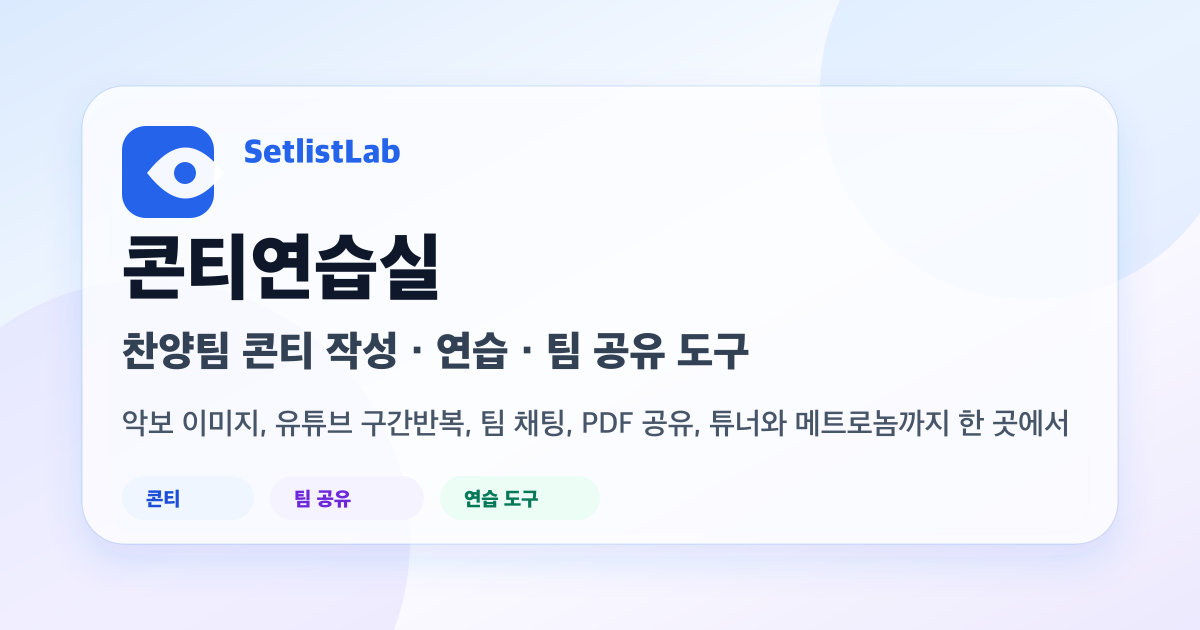
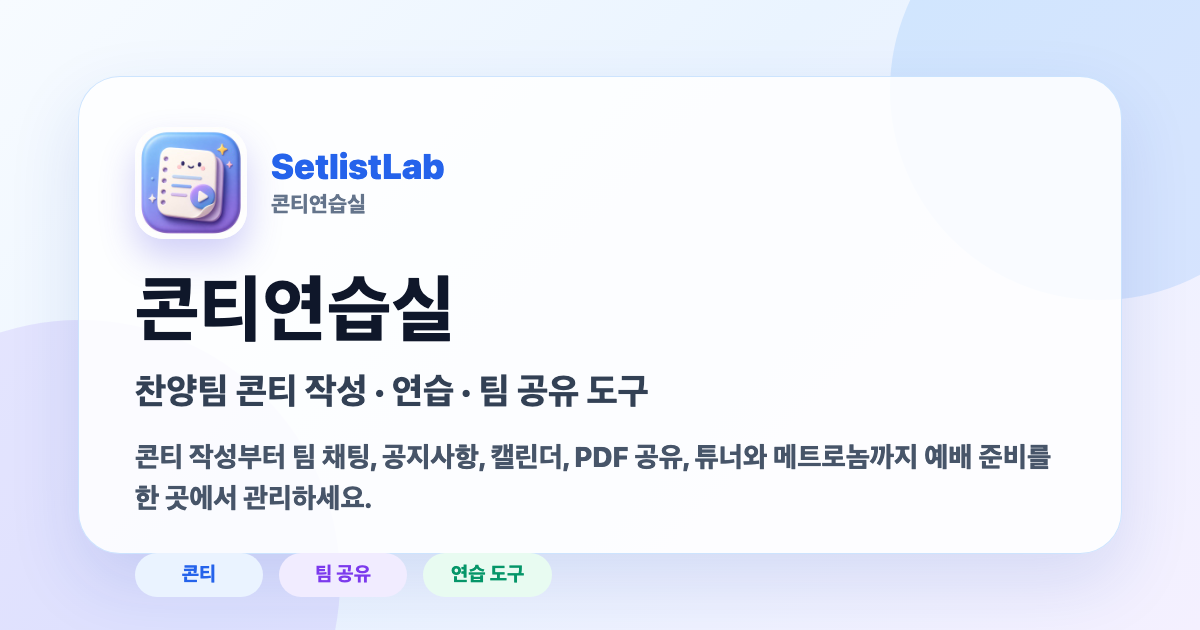
Update social preview image

diff --git a/app/layout.tsx b/app/layout.tsx
@@ -11,6 +11,7 @@ const siteDescription =
   "콘티연습실은 찬양팀을 위한 콘티 작성, 악보 이미지 관리, 유튜브 연습 링크, 팀 채팅, 공지사항, 캘린더, PDF 공유, 튜너와 메트로놈을 한 곳에서 사용할 수 있는 예배 준비 도구입니다.";
 const socialDescription =
   "콘티 작성부터 팀 채팅, 공지사항, 캘린더, 악보 검색, PDF 공유, 튜너와 메트로놈까지 찬양팀 예배 준비를 한 곳에서 관리하세요.";
+const ogImageUrl = "/og-image.png?v=20260630";
 
 export const metadata: Metadata = {
   metadataBase: new URL(siteUrl),
@@ -47,7 +48,7 @@ export const metadata: Metadata = {
     locale: "ko_KR",
     images: [
       {
-        url: "/og-image.png",
+        url: ogImageUrl,
         width: 1200,
         height: 630,
         alt: "콘티연습실",
@@ -58,7 +59,7 @@ export const metadata: Metadata = {
     card: "summary_large_image",
     title: siteTitle,
     description: socialDescription,
-    images: ["/og-image.png"],
+    images: [ogImageUrl],
   },
   manifest: "/manifest.json",
   icons: {